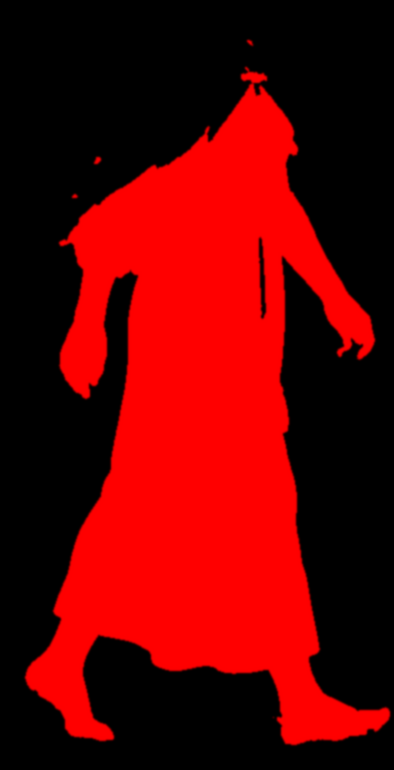
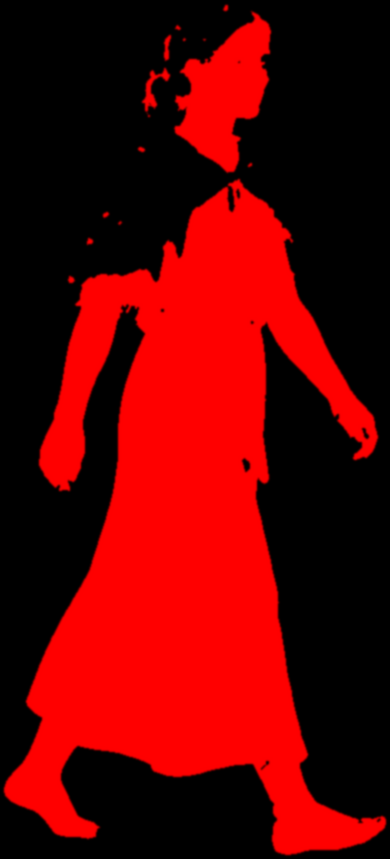
feat(figures): head-on pose paintings for the woman (stand/walk, point/carry/kneel/sit repainted with the head on the body: no neck seam, no tuft); cut_poses --head-on; tests updated for head-on sprites

diff --git a/engine-mvp/src/figures/puppet.ts b/engine-mvp/src/figures/puppet.ts
@@ -349,7 +349,7 @@ export type Seat = { url: string; aspect: number } // a library asset's image an
 
 // --- round 4 (PM option A): whole-figure POSE paintings, one per pose (cut_poses.py -> <view>/poses.json); the cut-out
 // parts stay for what has no painting (front, other characters) and the head swap; the hat part sits on the head
-type Sprite = Part & { neck: P2; feet: P2 }
+type Sprite = Part & { neck: P2; feet: P2; head_on?: boolean }
 type PoseSheet = { poses: Record<string, Sprite>; heads: Record<string, Part & { crown: P2 }> }
 const SPRITE_VIEWS: View[] = ['34', 'side']
 const WALK_FRAMES = ['walk1', 'walk2', 'walk3', 'walk2']
@@ -418,6 +418,13 @@ export async function createPuppet(scene: Scene, id: string, opts: PuppetOptions
     put(body, (px) => [(px[0] - sp.feet[0]) * s, -(px[1] - sp.feet[1]) * s * breathe], 0)
     body.size = [sp.w * s, sp.h * s]
     body.mat.setFloat('inkAbove', 1 - (sp.neck[1] + NECK_CUT_PX) / sp.h) // the neck stump is a cut: the head covers it
+    const shown = new Set<PartMesh>([body])
+    if (sp.head_on) { // painted with its head: no head swap, no seam (expressions are face decals, not yet painted)
+      for (const set of [...Object.values(sprites), ...VIEWS.map((x) => meshes[x])]) for (const pm of Object.values(set)) pm.mesh.setEnabled(shown.has(pm))
+      for (const h of Object.values(hats)) h.mesh.setEnabled(false)
+      state.seat?.mesh.setEnabled(false)
+      return
+    }
     const neck: P2 = [(sp.neck[0] - sp.feet[0]) * s, -(sp.neck[1] - sp.feet[1]) * s * breathe - PUPPET.headSink * k]
     const headSlot = `head_${state.expr}`, hp = ps.heads[headSlot] ?? ps.heads.head_neutral
     const hs = hp.m_per_px * k, step = PUPPET.zStep * Math.max(1, state.dist / 10)
@@ -425,7 +432,7 @@ export async function createPuppet(scene: Scene, id: string, opts: PuppetOptions
     put(head, (px) => add(neck, [(px[0] - hp.pivot[0]) * hs, -(px[1] - hp.pivot[1]) * hs]), -step)
     head.size = [hp.w * hs, hp.h * hs]
     head.mat.setFloat('inkBelow', 1 - (hp.pivot[1] - 2) / hp.h) // the neck cut joins the body: no contour there
-    const shown = new Set<PartMesh>([body, head])
+    shown.add(head)
     const hat = hats[v], hatPart = sheets[v].parts.hat
     if (hat && hatPart && state.hat) {
       const crown = add(neck, [(hp.crown[0] - hp.pivot[0]) * hs, -(hp.crown[1] - hp.pivot[1]) * hs])

diff --git a/engine-mvp/src/figures/puppet.test.ts b/engine-mvp/src/figures/puppet.test.ts
@@ -29,7 +29,7 @@ describe('puppet figures', () => {
         for (const view of VIEWS) {
           p.setView(view)
           if (p.mode() === 'paintings') { // a pose painting: body + head drawn, standing on its own feet
-            expect(shown(scene).length, `${pose} ${view}: painting + head`).toBeGreaterThanOrEqual(2)
+            expect(shown(scene).length, `${pose} ${view}: painting`).toBeGreaterThanOrEqual(1)
             continue
           }
           const j = p.joints()
@@ -130,7 +130,8 @@ describe('puppet figures', () => {
           const on = shown(scene).map((m) => m.name)
           const want = `boer-vrouw_${p.view}_pose_${pose === 'walk' ? 'walk' : pose}`
           expect(on.some((n) => n.startsWith(want)), `${pose} ${view}: ${on}`).toBe(true)
-          expect(on.some((n) => n.includes('_pose_head_')), `${pose} ${view}: a head`).toBe(true)
+          // head-on sprites carry their own head; the swap path (older sheets) also draws a head part
+          expect(on.length, `${pose} ${view}: body (+ head)`).toBeGreaterThanOrEqual(1)
         }
       }
       expect(warnings).toEqual([])
@@ -143,7 +144,8 @@ describe('puppet figures', () => {
       expect(cycle.slice(0, 4)).toEqual(['walk1', 'walk1', 'walk2', 'walk2'])
       for (const f of ['walk1', 'walk2', 'walk3']) expect(scene.getMeshByName(`boer-vrouw_34_pose_${f}`), f).not.toBeNull()
       p.setExpression('surprised')
-      expect(shown(scene).some((m) => m.name === 'boer-vrouw_34_pose_head_surprised')).toBe(true)
+      // head-on sprites: the expression is a face decal (not yet painted), so the figure keeps its painted face
+      expect(shown(scene).some((m) => m.name.startsWith('boer-vrouw_34_pose_walk'))).toBe(true)
       expect(p.garments()).toContain('top')
       p.setDye('top', '#2b4a7a')
       const mat = scene.getMeshByName('boer-vrouw_34_pose_walk1')!.material!

diff --git a/engine-mvp/src/figures/cut_poses.py b/engine-mvp/src/figures/cut_poses.py
@@ -24,6 +24,7 @@ SLOTS = {"A": ["stand", "walk1", "walk2", "walk3"], "B": ["point", "carry", "kne
 TUFT_BAND = 0.12  # the tuft lies in the bottom share of a figure
 TUFT_A = -3       # Lab a* under this is the grass's green
 BODY_POCKET_PX = 60  # a body painting: paper between the feet, an arm and the dress is background (a head keeps eye whites)
+FULL_M = 1.70    # feet to crown, standing, painted with the head
 NECK_M = 1.41    # feet to the base of the neck, standing, for a 1.70 m figure
 HEAD_M = 0.27    # crown to the base of the neck
 COLLAR_FLARE = 1.3  # the outline this much wider than the neck is the collar
@@ -65,6 +66,7 @@ def main():
     ap.add_argument("sheet")
     ap.add_argument("out")
     ap.add_argument("--sheet", dest="which", required=True, choices=SLOTS)
+    ap.add_argument("--head-on", action="store_true", help="the figures are painted with their heads (no head swap)")
     a = ap.parse_args()
     rgb = np.asarray(Image.open(a.sheet).convert("RGB"))
     alpha = alpha_of(rgb, None if a.which == "H" else BODY_POCKET_PX)
@@ -119,10 +121,12 @@ def main():
                 manifest["skin_lab"] = [round(float(v), 1) for v in lab_of(img[int(h * 0.35):int(h * 0.55), int(w * 0.35):int(w * 0.65)].reshape(-1, 3)).mean(0)]
         else:
             neck, feet = neck_point(m), feet_point(m)
-            if scale is None:  # the first figure of a sheet stands: its feet-to-neck sets the sheet's scale
-                scale = NECK_M / float(feet[1] - neck[1])
+            if scale is None:  # the first figure of a sheet stands: its feet-to-neck (or crown) sets the sheet's scale
+                scale = (FULL_M if a.head_on else NECK_M) / float(feet[1] - neck[1])
             entry.update(neck=[round(float(neck[0]), 1), round(float(neck[1]), 1)],
                          feet=[round(float(feet[0]), 1), round(float(feet[1]), 1)], m_per_px=round(scale, 6))
+            if a.head_on:
+                entry["head_on"] = True
             skin = np.array(manifest["skin_lab"]) if "skin_lab" in manifest else None
             mask, regions = dye_mask(img, al, skin)
             if regions:

diff --git a/engine-mvp/src/figures/parts_prompts.py b/engine-mvp/src/figures/parts_prompts.py
@@ -127,10 +127,9 @@ def pose_ink_prompt(cid: str, view: str, sheet: str) -> str:
         poses = " ".join(f"({i + 1}) {p};" for i, p in enumerate(POSE_SHEETS[sheet]))
         body = (f"A sheet of FOUR full figures of the same character on pure flat white paper, in one row from left to right, "
                 f"all at the SAME scale and standing on the same baseline, each separate with wide white space, never touching. "
-                f"The character: {desc}. All drawn in {v}. WITHOUT THE HEAD: each figure ends at the top of the neck in a clean "
-                f"straight cut at the collar line (the heads are drawn on another sheet). The poses: {poses} "
-                f"{GROUND_TUFT} No labels, no text, no numbers.")
-    return " ".join(" ".join([body, FIGURE_INK, STYLISED_FACE if sheet == "H" else "", "Realistic adult proportions, 7.5 heads tall."]).split())
+                f"The character: {desc}. All drawn in {v}, each WITH the head, a calm neutral face. The poses: {poses} "
+                f"The bare feet stand directly on the white paper: no grass, no ground, no shadow. No labels, no text, no numbers.")
+    return " ".join(" ".join([body, FIGURE_INK, STYLISED_FACE, "Realistic adult proportions, 7.5 heads tall."]).split())
 
 
 def pose_colour_prompt(cid: str) -> str:
